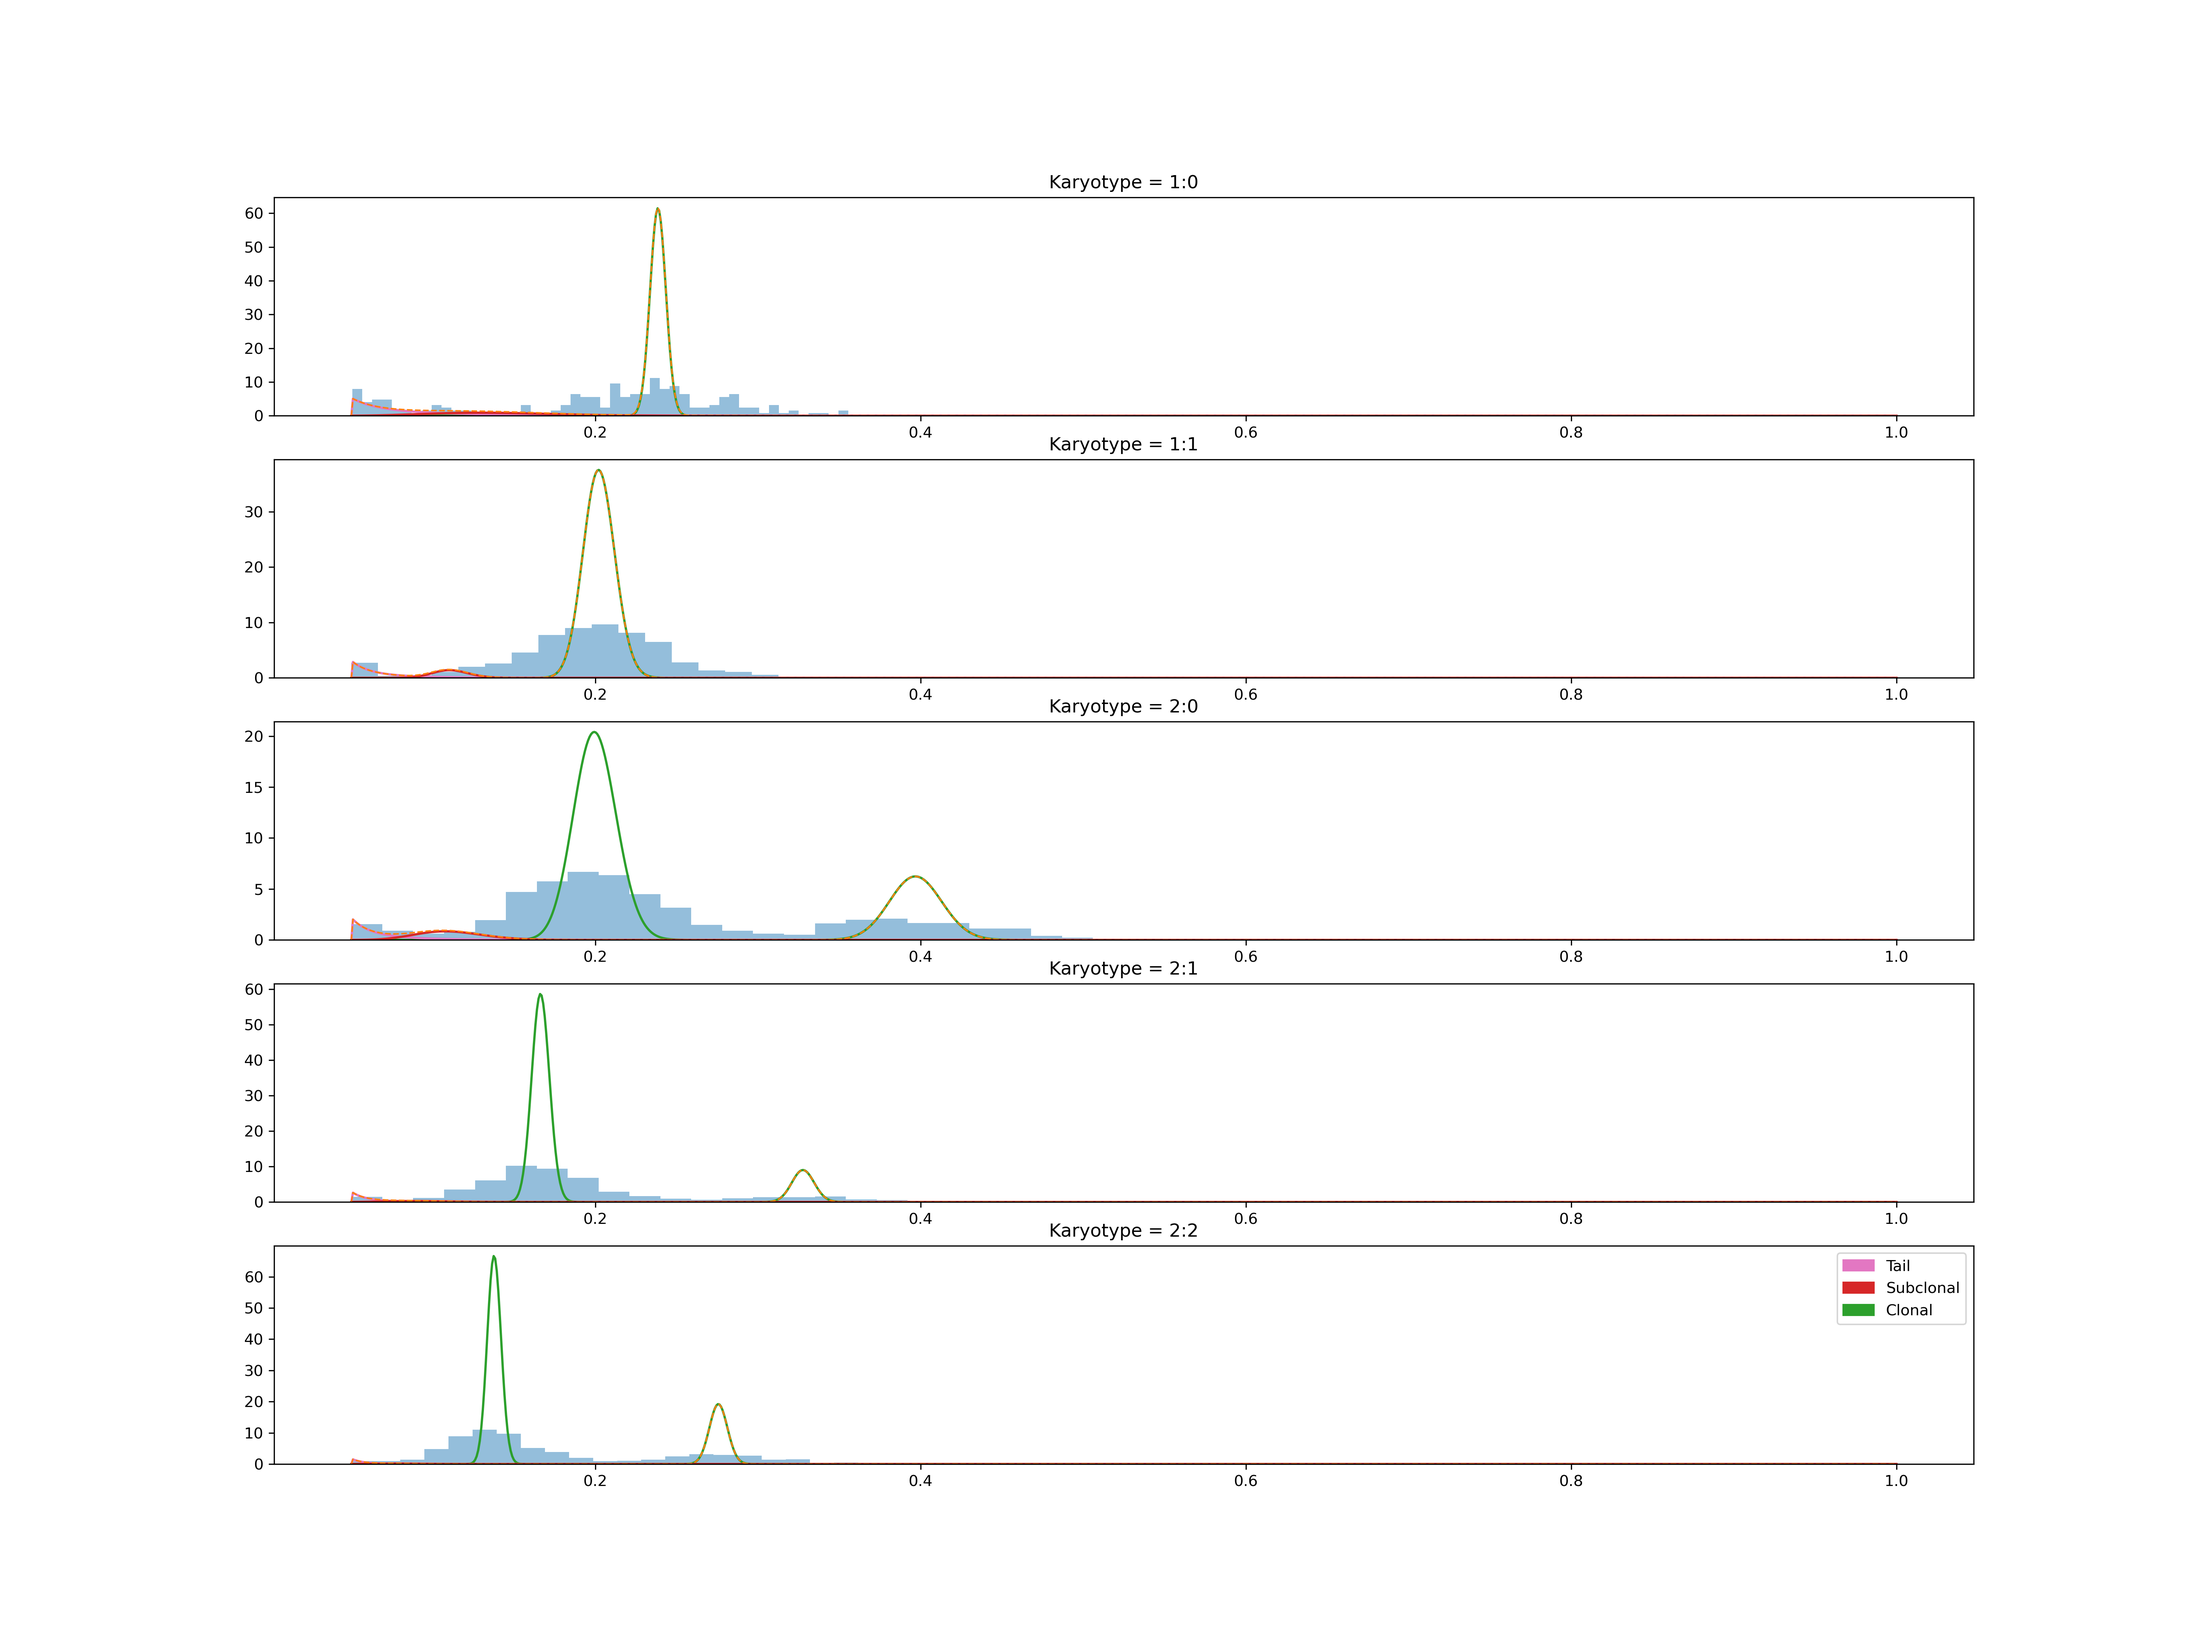
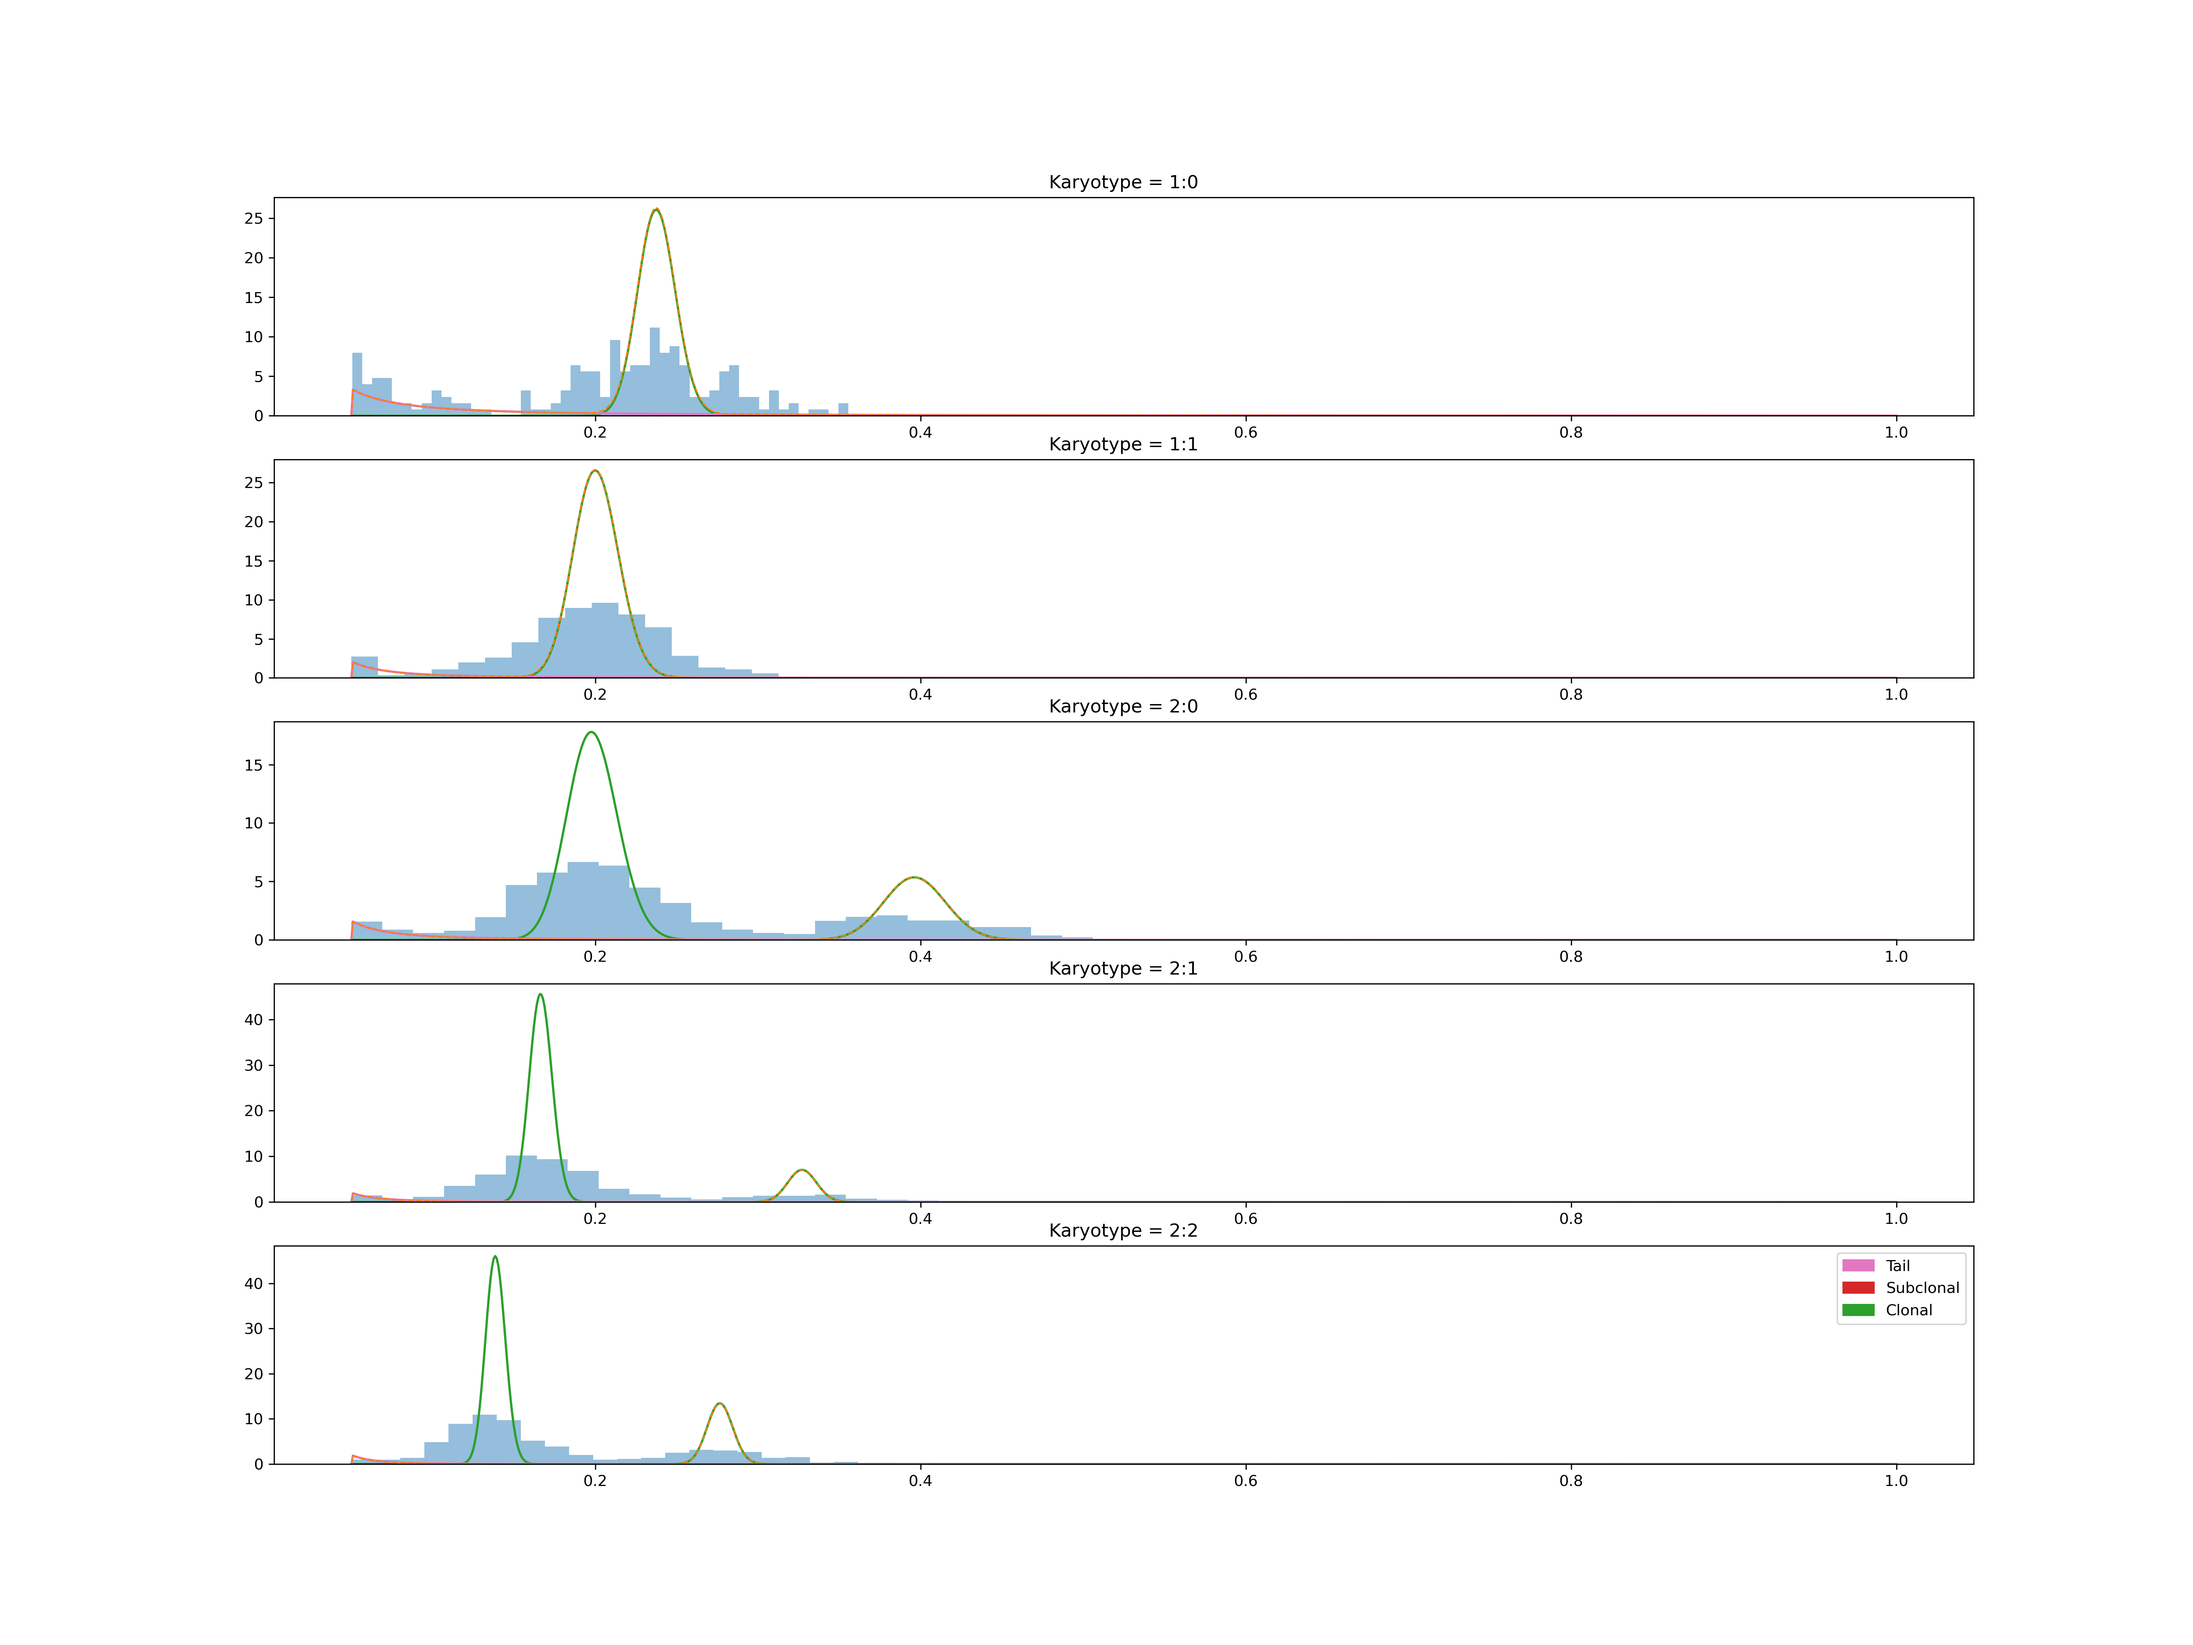
improved pareto

diff --git a/mobster/model_mobster.py b/mobster/model_mobster.py
@@ -9,7 +9,7 @@ import mobster.utils_mobster as mut
 
 @config_enumerate
 def model(data, K=1, tail=1, truncated_pareto = True, subclonal_prior = "Moyal", multi_tail = False, purity=0.96,  number_of_trials_clonal_mean=500.,number_of_trials_subclonal = 300, number_of_trials_k=300.,
-         prior_lims_clonal=[0.1, 100000.], prior_lims_k=[0.1, 100000.], alpha_precision_concentration = 2, alpha_precision_rate=0.01, epsilon_ccf = 0.01):
+         prior_lims_clonal=[0.1, 100000.], prior_lims_k=[0.1, 100000.], alpha_precision_concentration = 2, alpha_precision_rate=0.01, epsilon_ccf = 0.002):
 
     """Hierarchical bayesian model for Subclonal Deconvolution∑
 
@@ -89,7 +89,7 @@ def model(data, K=1, tail=1, truncated_pareto = True, subclonal_prior = "Moyal",
     if not multi_tail:
         alpha_prior = pyro.sample('u', dist.Gamma( 3, 3 ))
     else:
-        alpha_prior = pyro.sample('u', dist.Gamma(20, 20))
+        alpha_prior = pyro.sample('u', dist.Gamma(10, 10))
 
     #ccf_priors = ((torch.min(torch.tensor(1) * purity) - 0.001) / (K + 1)) * torch.arange(1,K+1)
     #subclonal_ccf = pyro.sample("sb_ccf", dist.Beta(ccf_priors * number_of_trials_k, (1-ccf_priors) * number_of_trials_k))
@@ -177,20 +177,20 @@ def model(data, K=1, tail=1, truncated_pareto = True, subclonal_prior = "Moyal",
                     for tails in pyro.plate("subclonal_tail_{}".format(kr), K + 1):
                         if torch.Tensor(tcm)[tails] > (torch.min(VAF) + 0.05):
                             p[tails] = pyro.sample("tail_T_{}_{}".format(kr, tails),
-                                            BoundedPareto(torch.min(VAF) - 1e-5, alpha, torch.Tensor(tcm)[tails]
+                                            BoundedPareto(scale_pareto(VAF), alpha, torch.Tensor(tcm)[tails]
                                             ))
                         else:
                             p[tails] = pyro.sample("tail_T_{}_{}".format(kr, tails), dist.Delta(torch.Tensor(tcm)[tails]))
                 else:
                     multitails_weights = None
                     p = pyro.sample("tail_T_{}".format(kr),
-                                    BoundedPareto(torch.min(VAF) - 1e-5, alpha,
+                                    BoundedPareto(scale_pareto(VAF), alpha,
                                                   torch.amin(theo_peaks)))
 
 
             else:
                 multitails_weights = None
-                p = pyro.sample("tail_{}".format(kr), BoundedPareto(torch.min(VAF) - 1e-5, alpha, 1))
+                p = pyro.sample("tail_{}".format(kr), BoundedPareto(scale_pareto(VAF), alpha, 1))
 
 
         with pyro.plate('data_{}'.format(kr), len(data[karyos[kr]])):

diff --git a/mobster/guide_mobster.py b/mobster/guide_mobster.py
@@ -14,7 +14,7 @@ from mobster.likelihood_calculation import *
 @config_enumerate
 def guide(data, K=1, tail=1, truncated_pareto = True,subclonal_prior = "Moyal",multi_tail = False,  purity=0.96, clonal_beta_var=1., number_of_trials_clonal_mean=100.,
           number_of_trials_subclonal=300., number_of_trials_k=300., prior_lims_clonal=[1., 10000.],alpha_precision_concentration = 100, alpha_precision_rate=0.1,
-          prior_lims_k=[1., 10000.], epsilon_ccf = 0.01):
+          prior_lims_k=[1., 10000.], epsilon_ccf = 0.002):
 
 
     karyos = list(data.keys())
@@ -172,14 +172,14 @@ def guide(data, K=1, tail=1, truncated_pareto = True,subclonal_prior = "Moyal",m
                     for tails in pyro.plate("subclonal_tail_{}".format(kr), K + 1):
                         if torch.Tensor(tcm)[tails] > (torch.min(VAF) + 0.05):
                             pyro.sample("tail_T_{}_{}".format(kr, tails),
-                                            BoundedPareto(torch.min(VAF) - 1e-5, alpha,
+                                            BoundedPareto(scale_pareto(VAF), alpha,
                                                           torch.Tensor(tcm)[tails] ))
                         else:
                             pyro.sample("tail_T_{}_{}".format(kr, tails), dist.Delta(torch.Tensor(tcm)[tails]))
 
                 else:
                     pyro.sample("tail_T_{}".format(kr),
-                                    BoundedPareto(torch.min(VAF) - 1e-5, alpha,
+                                    BoundedPareto(scale_pareto(VAF), alpha,
                                                   torch.amin(theo_peaks[kr]))
                                                   )
 

diff --git a/mobster/likelihood_calculation.py b/mobster/likelihood_calculation.py
@@ -78,7 +78,7 @@ def compute_likelihood_from_params(data, params, tail, truncated_pareto, purity,
 def calculate_lk_multitail_params(NV, DP, lower, tail, b_max, weights, K, truncated_pareto, multi_tails):
 
     LINSPACE = 1000
-    x = torch.linspace(lower, torch.max(b_max).item(), LINSPACE)
+    x = torch.linspace(lower.item(), torch.max(b_max).item(), LINSPACE)
     if K == 0 or not truncated_pareto or not multi_tails:
         y_1 = BoundedPareto(lower, tail, b_max).log_prob(
             x).exp()
@@ -154,7 +154,7 @@ def compute_likelihood_from_params_aux(data, tail, truncated_pareto, params, i, 
                 weights = torch.tensor(1)
                 b_max_tail = torch.tensor(0.999)
 
-            pareto = calculate_lk_multitail_params(NV, DP, torch.min(VAF) - 1e-5,
+            pareto = calculate_lk_multitail_params(NV, DP, scale_pareto(VAF),
                                                    params['tail_mean'] * theo_allele_list[karyo], b_max_tail,
                                                    weights, K, truncated_pareto, multi_tails)
 
@@ -183,7 +183,7 @@ def compute_likelihood_from_params_aux(data, tail, truncated_pareto, params, i, 
                 weights = torch.tensor(1)
                 b_max_tail = torch.tensor(0.999)
 
-            pareto = calculate_lk_multitail_params(NV, DP, torch.min(VAF) - 1e-5,
+            pareto = calculate_lk_multitail_params(NV, DP, scale_pareto(VAF),
                                                    params['tail_mean'] * theo_allele_list[karyo], b_max_tail,
                                                    weights, K, truncated_pareto, multi_tails)
 

diff --git a/mobster/utils_mobster.py b/mobster/utils_mobster.py
@@ -154,7 +154,7 @@ def format_parameters_for_export_aux(data, params,k, i, theo_clones, counts_clon
 
     if tail == 1:
         res["tail_shape"] = params['tail_mean'].detach().numpy()
-        res["tail_scale"] = np.min(VAF.detach().numpy())
+        res["tail_scale"] = scale_pareto(VAF).detach().numpy()
         res["tail_noise"] =  1/params['alpha_noise'][i].detach().numpy()
         res["tail_higher"] = b_max.detach().numpy()
         if K > 0 and truncated_pareto and multi_tails:
@@ -259,4 +259,24 @@ def collect_params_no_noise(pars):
         ret = list(flatten([ret, subclones]))
     return(np.array(ret))
 
+def scale_pareto(VAF):
+    NBINS = 50
+    hist = torch.histc(VAF, NBINS, 0, 1)
+    h_diff = hist[0:-1] - hist[1:]
+    vals = torch.cumsum(1/NBINS * torch.ones(NBINS),0)
+    v1 = 0
+    v2 = 0
+    for diff in h_diff:
+        v2 = diff
+        if v1 < v2:
+            break
+        v1 = v2
 
+    idx = torch.where(h_diff == v1)
+
+    best_scale = (vals[idx[0]] + vals[idx[0] + 1]) / 2
+
+    if best_scale > 0.15:
+        return torch.min(VAF) - 1e-5
+    else:
+        return best_scale - 1e-5

diff --git a/mobster/plotting_mobster.py b/mobster/plotting_mobster.py
@@ -48,7 +48,7 @@ def plot_results(data, inf_res, bins=50, output = "results.png",fig_height = 4, 
 
 
 
-        for j in range(tail, params["beta_concentration1"].shape[0] + 1):
+        for j in range(tail, params["beta_concentration1"].shape[0] + tail):
 
 
             cl = "tab:green"
